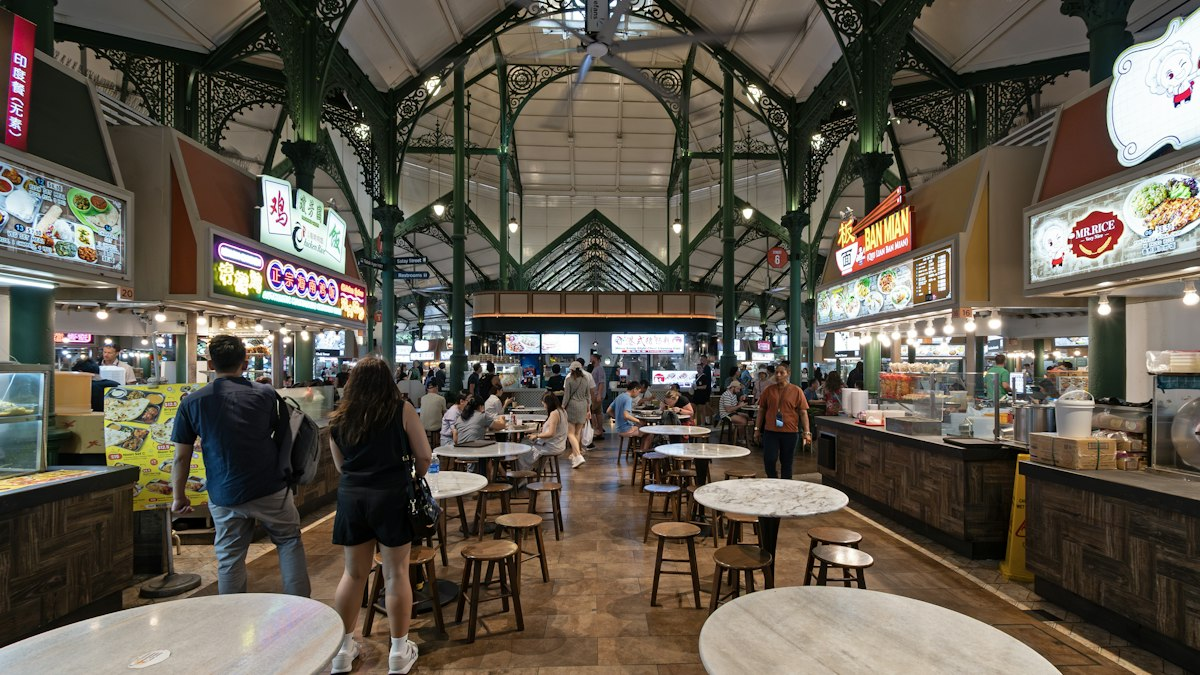
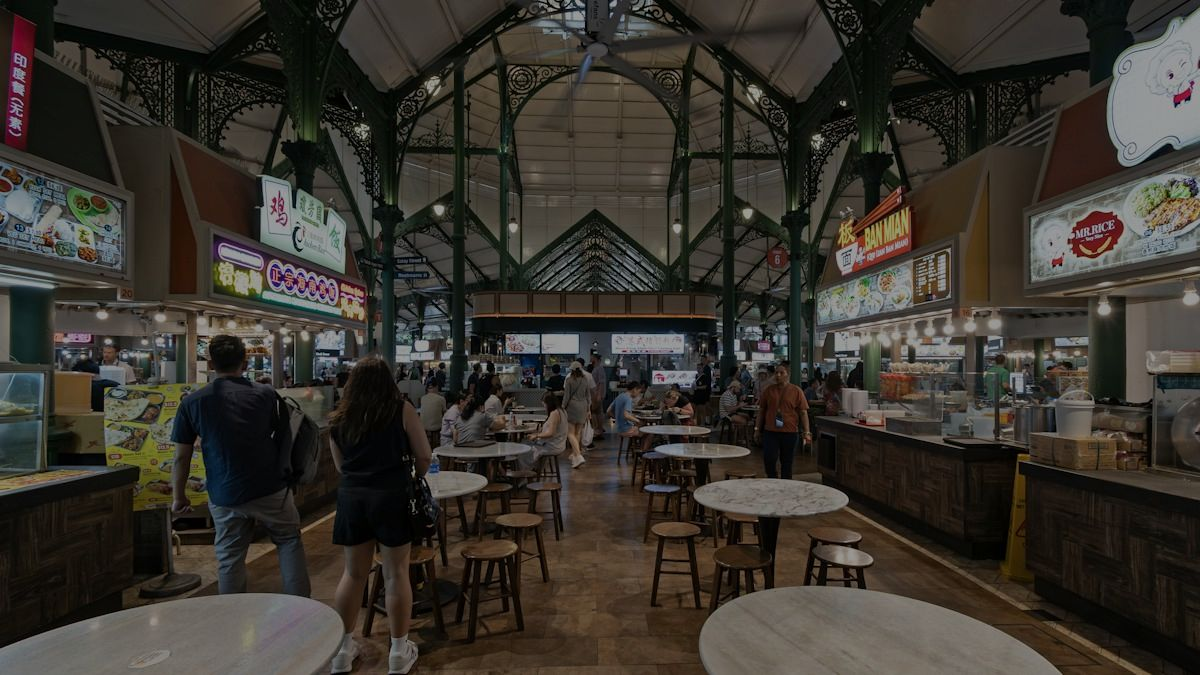
Storefront seed: darken the network backdrop so its white title stays legible

diff --git a/seeders/Storefront/images/stores/README.md b/seeders/Storefront/images/stores/README.md
@@ -15,7 +15,8 @@ colour. They are not real brands.
 [Unsplash License](https://unsplash.com/license): free for commercial use, no permission or
 attribution required. Unsplash+ photos are excluded. Fetched center-cropped at 1200×675
 (`?w=1200&h=675&fit=crop&crop=entropy&q=78&fm=jpg`). Keep replacements free of legible brands,
-shop signs and recognisable faces.
+shop signs and recognisable faces. `fleetbase-marketplace-backdrop.jpg` is darkened to 60%
+brightness: the network's name and description sit on it in white.
 
 | File | Photo | Photographer |
 |---|---|---|
